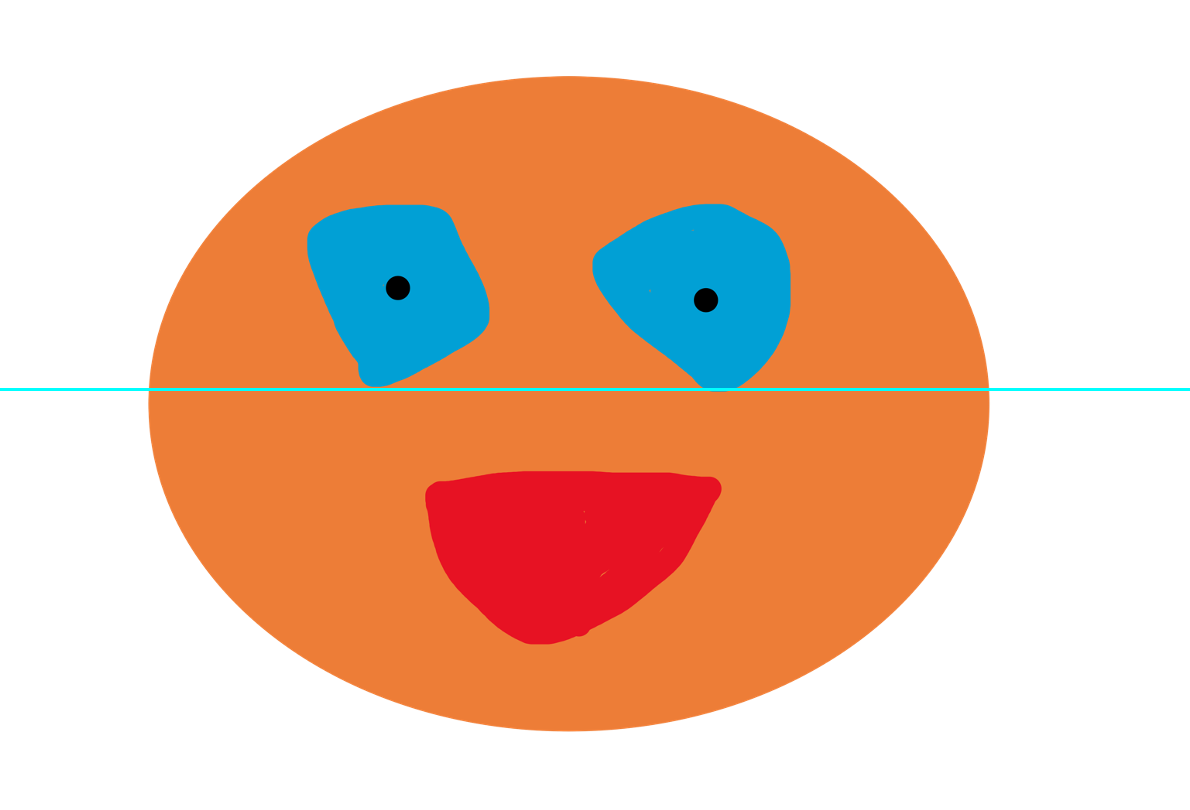
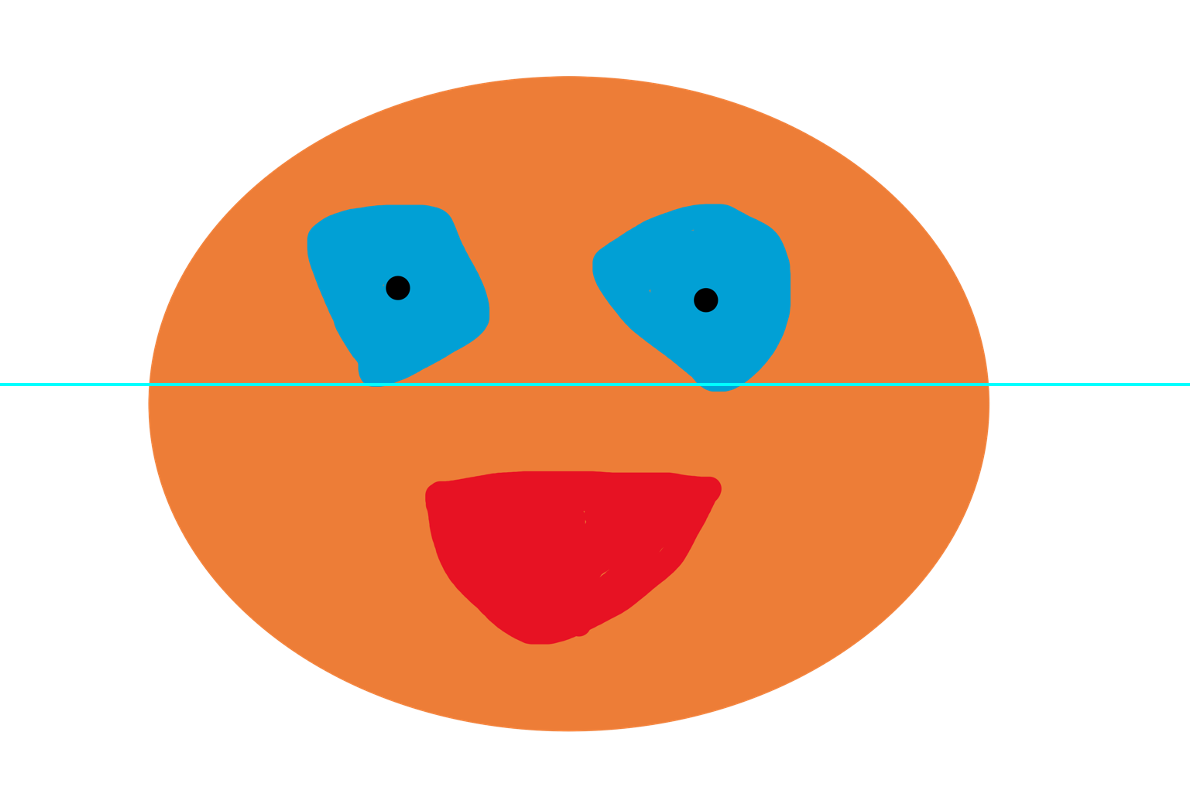
パーツ分割を改良
パーツ分割改良

Changed region(s): [[0.0, 0.463, 1.0, 0.4938]]

diff --git a/makizushi/div_parts.py b/makizushi/div_parts.py
@@ -13,7 +13,7 @@ image = Image.open(imagename + ".png")
 #cannyによるエッジ検出
 def canny(imagename):
     img = cv2.imread(imagename + ".png")
-    img_gauss = cv2.GaussianBlur(img, (5, 5), 3)
+    img_gauss = cv2.GaussianBlur(img, (3, 3), 3)
     img_canny = cv2.Canny(img_gauss, 100, 200)
     cv2.imwrite("canny.png", img_canny)
     return img_canny
@@ -54,23 +54,28 @@ def find_contours(imagename, mode):
         _, img_2 = cv2.threshold(img, 0, 255, cv2.THRESH_OTSU)
     #輪郭抽出
     contours, hierarchy = cv2.findContours(img_2, cv2.RETR_TREE, cv2.CHAIN_APPROX_SIMPLE)
-    #print(len(labels))
     contours_list = list(contours)
     hierarchy_list = list(hierarchy[0])
-    #labels_list = list(labels[0])
-    """
-    for i in reversed(range(len(contours_list))):
+    pop_index = []
+    for i in range(len(contours_list)):
         if cv2.contourArea(contours_list[i]) < 30:
-            if hierarchy_list[i][1] != -1:
-                hierarchy_list[hierarchy_list[i][1]][0] = hierarchy_list[i][0]
-            if hierarchy_list[i][0] != -1:
-                hierarchy_list[hierarchy_list[i][0]][1] = hierarchy_list[i][1]
             if hierarchy_list[i][3] != -1 and hierarchy_list[hierarchy_list[i][3]][2] == i:
                 hierarchy_list[hierarchy_list[i][3]][2] = hierarchy_list[i][0]
+            pop_index.append(i)
+    pop_index.append(len(contours_list))
+
+    delete_number = 1
+    for i in range(len(pop_index)-1):
+        for j in range(len(contours_list)):
+            if hierarchy_list[j][2] > pop_index[i] and hierarchy_list[j][2] < pop_index[i+1]:
+                hierarchy_list[j][2] = hierarchy_list[j][2]-delete_number
+            if hierarchy_list[j][3] > pop_index[i] and hierarchy_list[j][3] < pop_index[i+1]:
+                hierarchy_list[j][3] = hierarchy_list[j][3]-delete_number
+        delete_number = delete_number+1
+    for i in reversed(range(len(contours_list))):
+        if i in pop_index:
             contours_list.pop(i)
             hierarchy_list.pop(i)
-            #labels_list.pop(i)
-    """
     return [contours_list, hierarchy_list]
 
 #図形近似
@@ -141,16 +146,16 @@ def resipi_line_image(contours):
     line_imagename = []
     for i in range(len(contours)):
         line_image = Image.open(imagename + ".png")
-        y = 0
-        for j in contours[i]:
-            if j[0][1] >= y:
-                y = j[0][1]
+        #各パーツの最下ピクセルのy座標（制作順序のため）
+        y = start_point(contours[i])
+        #最下ピクセルを通るx軸に並行な直線(長さ3)
         for l in range(3):
             for k in range(line_image.width):
                 line_image.putpixel((k, y+l-2), (0, 255, 255))
         line_image.save("line_image_a/line_image" + str(i) + ".png")
         y_image = cv2.imread("line_image_a/line_image" + str(i) + ".png")
         _, width, _ = y_image.shape[:3]
+        #一番上(y=0)から最下点までのピクセルを灰色に
         for k in range(y-2):
             for j in range(width):
                 y_image[k, j] = y_image[k, j, 0]*0.4+75
@@ -161,11 +166,11 @@ def resipi_line_image(contours):
 
 #各パーツの最下ピクセルのy座標（制作順序のため）
 def start_point(contours):
-    y = 0
+    y_min = 0
     for i in contours:
-        if i[0][1] >= y:
-            y = i[0][1]
-    return y
+        if i[0][1] >= y_min:
+            y_min = i[0][1]
+    return y_min
 
 def div_parts(imagename):
     #各パーツ情報のlist
@@ -180,6 +185,13 @@ def div_parts(imagename):
     ch = find_contours(imagename, 0)
     contours = ch[0]
     hierarchy = ch[1]
+    with open('hierarchy.csv', "w", encoding="utf_8_sig") as f:
+        writer = csv.writer(f)
+        writer.writerow([hierarchy[0][2], hierarchy[0][3]])
+    for i in range(len(contours)-1):
+        with open('hierarchy.csv', "a", encoding="utf_8_sig") as f:
+            writer = csv.writer(f)
+            writer.writerow([hierarchy[i+1][2], hierarchy[i+1][3]])
     number_imagename = image_numberdraw(contours)
     line_imagename = resipi_line_image(contours)
     matches = app_shape(contours)
@@ -223,7 +235,7 @@ def div_parts(imagename):
         #独立パーツ番号編集
         if data[k][4] == -1:
             data[k][0] = a
-            #パーツ番号編集にともなった核発の親パーツ番号編集
+            #パーツ番号編集にともなった親パーツ番号編集
             for i in range(len(data)):
                 if data[i][5] == k:
                     data[i][5] = a
@@ -236,7 +248,7 @@ def div_parts(imagename):
         else:
             if data[k][0] != 0:
                 data[k][0] = c
-                #パーツ番号編集にともなった核発の親パーツ番号編集
+                #パーツ番号編集にともなった親パーツ番号編集
                 for i in range(len(data)):
                     if data[i][5] == k:
                         data[i][5] = c
